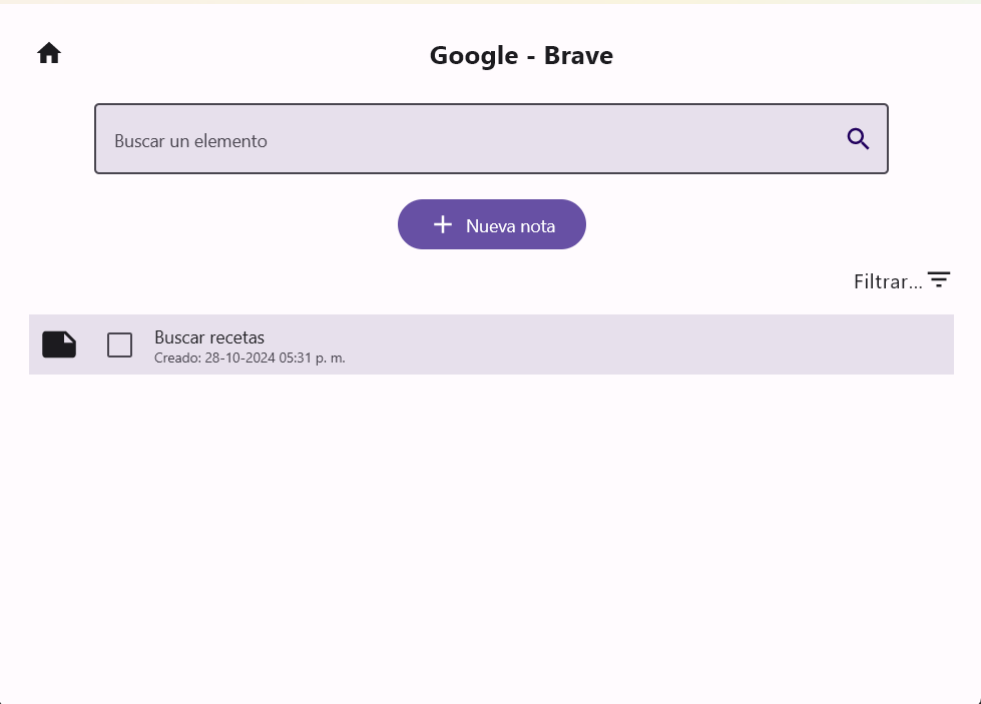
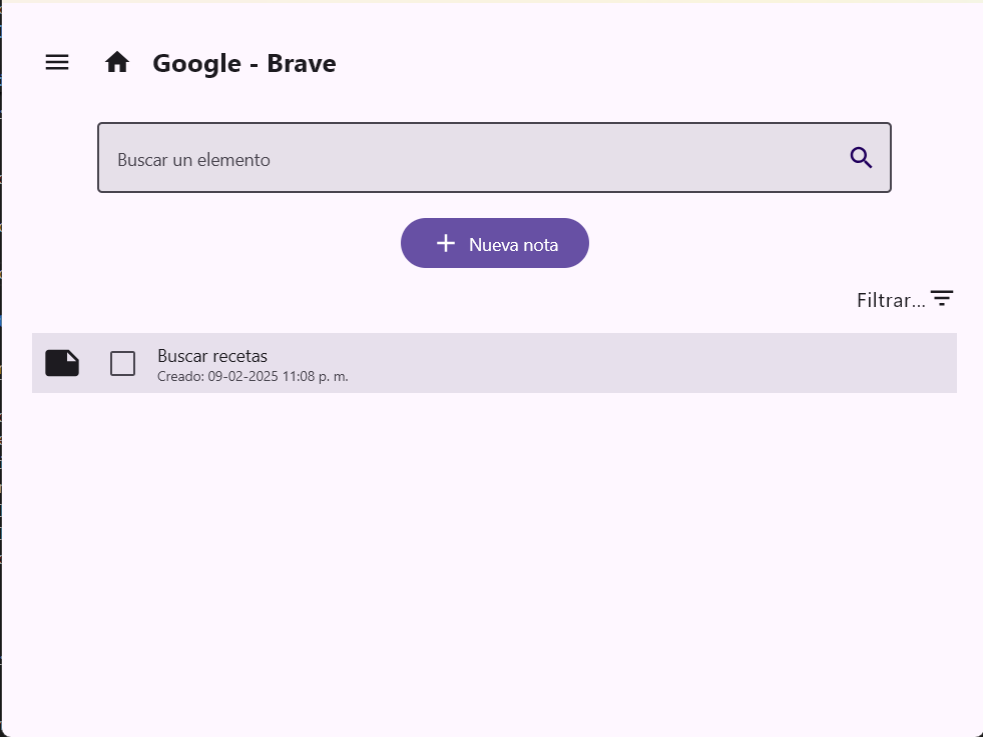
Actualizando documentación a la versión 1.4.0

diff --git a/README.md b/README.md
@@ -21,25 +21,26 @@ En Linux no se requiere ejecutar con "sudo", siempre y cuando se instale la apli
 
 ### Pantalla principal
 
-![Pantalla principal](https://github.com/user-attachments/assets/be8b85d0-376d-4773-9fb4-0c60a4f75408)
+![Pantalla principal](images/Pantalla%20principal.png)
 
 Aquí podrás ver todas las ventanas (junto con su ejecutable y su ruta) que has abierto al menos una vez.
 
-Para abrir las notas asociadas a determinada aplicación, primero expande la lista de ventanas de un ejecutable. Se puede abrir de dos maneras:
-
-1. Doble click al elemento de ventana.
-2. Click al elemento de ventana y darle click al botón de documento a la derecha
+Para abrir las notas asociadas a determinada aplicación, primero expande la lista de ventanas de un ejecutable con el botón '+'. La pantalla debería verse así:
 
 ![Ejecutables expandidos](images/Pantalla%20principal%20(expansion).png)
+
+En esta pantalla podrás buscar aplicaciones que pertenezcan solo al programa al que pertenecen.
+
+Se puede abrir las notas de una ventana de dos maneras:
+
+1. Doble click al elemento.
+2. Click al elemento para seleccionarla y darle click al botón de documento a la derecha
 
 Al estar seleccionado:
 ![Elemento de ventana](images/Pantalla%20principal%20(elemento%20selec).png)
 
-Los ejecutables se caracterizan por el ícono binario, mientras que las ventanas son distinguidas por un logo de ventana estilo mac.
+Los ejecutables se caracterizan por el ícono binario, mientras que las ventanas son distinguidas por un logo de ventana estilo Mac OS.
 También se cuenta con el botón "Ver notas comunes", por si necesitas escribir notas que no estén asociadas a una ventana o ejecutable en específico.
-
-Presiona el ícono de engranaje para acceder a la configuración.
-Presiona el ícono de enchufe para apagar el servidor de escucha. Esto implica que al apagarlo, se cerrará la aplicación y dejará de funcionar hasta que la vuelvas a abrir.
 
 ### Pantalla de notas
 
@@ -47,6 +48,8 @@ Presiona el ícono de enchufe para apagar el servidor de escucha. Esto implica q
 
 En esta pantalla podrás ver todas tus notas asociadas a una aplicación. Para ver una nota o editarla, dale doble click al elemento, o selecciona un elemento y dale click al lápiz.
 También puedes borrar la nota al tenerla seleccionada. Dale click al botón de la basura rojo a la derecha. Si deseas marcar una nota como completada, use el recuadro a la izquierda de la nota. La nota se moverá al principio o al final de la lista, dependiendo de los filtros activos (lea más adelante).
+
+También puedes cambiar de contexto de ventana fácilmente presionando el ícono de menú de arriba a la izquierda. Podrás ver las ventanas que tengan notas, siempre y cuando pertenezcan al mismo ejecutable. Si quieres cambiar hacia otra ventana con distinto ejecutable, tendrás que regresar a la página principal.
 
 ![Elemento de nota seleccionado](images/Pantalla%20Notas%20(elemento%20selec).png)
 
@@ -70,16 +73,16 @@ Alternativamente, existe el orden personalizado, donde tu puedes crear el orden 
 
 ### Editar una nota
 
-![edición](https://github.com/user-attachments/assets/d48a490e-cba8-4a51-9ad9-69ba6f87b910)
+![edición](images/Pantalla%20edicion.png)
 
 Aquí es donde editas una nota.
-Las notas deben tener obligatoriamente un título, pero el contenido es opcional. Para guardar la nota, dale click al botón "Guardar" o presiona Ctrl + S. Al guardar la nota, se cerrará auomáticamente la ventana.
+Las notas deben tener obligatoriamente un título, pero el contenido es opcional. Para guardar la nota, abre el menú "Archivo" y dale click a la opción guardar,  o presiona Ctrl + S.
 
-Puedes salir de la ventana presionando Esc.
+Puedes salir de la ventana presionando Shift + Esc.
 
 ### Configuración
 
-![image](https://github.com/user-attachments/assets/45717f01-57ca-4c1c-a4ff-8b633afc0d0d)
+![configuracion](images/Pantalla%20Configuración.png)
 
 En esta pantalla podrás cambiar los parámetros de la aplicación, como el tema, el puerto de ejecución del servidor y el atajo para abrir la aplicación.
 El tema por defecto es el tema claro, y puedes cambiarlo a modo oscuro.

diff --git a/Novedades.md b/Novedades.md
@@ -1,0 +1,33 @@
+# Instrucciones de instalación
+
+## Sistemas operativos soportados
+
+- Linux (Distros basadas en Debian y con X11 como servidor o sistema gráfico de ventanas)
+- Windows 10 y 11
+
+## Novedades
+
+> - Ahora la aplicación tiene un actualizador automático.
+> - Se implementaron barras de navegación superiores para una mejor experiencia de usuario al no tener botones intrusivos
+
+## Linux - Debian o derivados con X11
+
+> [!NOTE]
+> Si quieres saber si tu entorno de ventanas actual es X11, ejecuta  el comando `xlogo`. Si te aparece una ventana, estas usando X11, de lo contrario, la aplicación no es compatible con tu sistema  de ventanas (ejemplo más conocido: Wayland).
+
+Descarga el archivo App ToDo.tar.gz
+Abre una terminal y entra en la carpeta donde tengas guardado el archivo. Ejecuta el siguiente comando:
+`tar zxvf "App ToDo.tar.gz"`
+
+Ahora solo ejecuta el comando:
+`./install`
+
+Y se instalará automáticamente.
+
+> [!WARNING]
+> Si no ejecutas el archivo install, solo podrás ejecutar la aplicación con sudo
+
+## Windows
+
+Descarga el instalador (.exe). Desactiva cualquier antivirus o agrega una excepción al archivo de instalación ya que se creó con la herramienta [Inno Setup](https://jrsoftware.org/isinfo.php), la cual lanza falsos positivos (IDP.Generic en el caso de Avast Antivirus). Si ejecutas primero el instalador y el antivirus lo bloquea, puede que se dañe y tengas que volver a descargarlo.
+Sigue las instrucciones del instalador.
